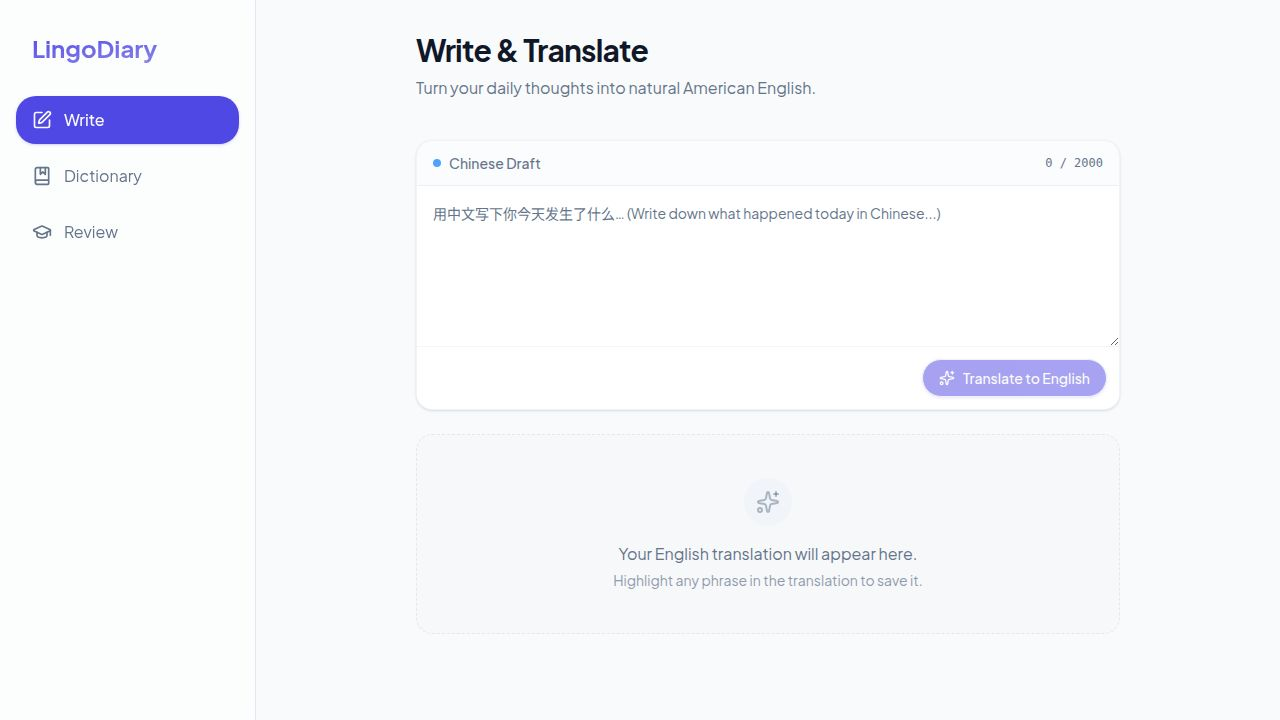
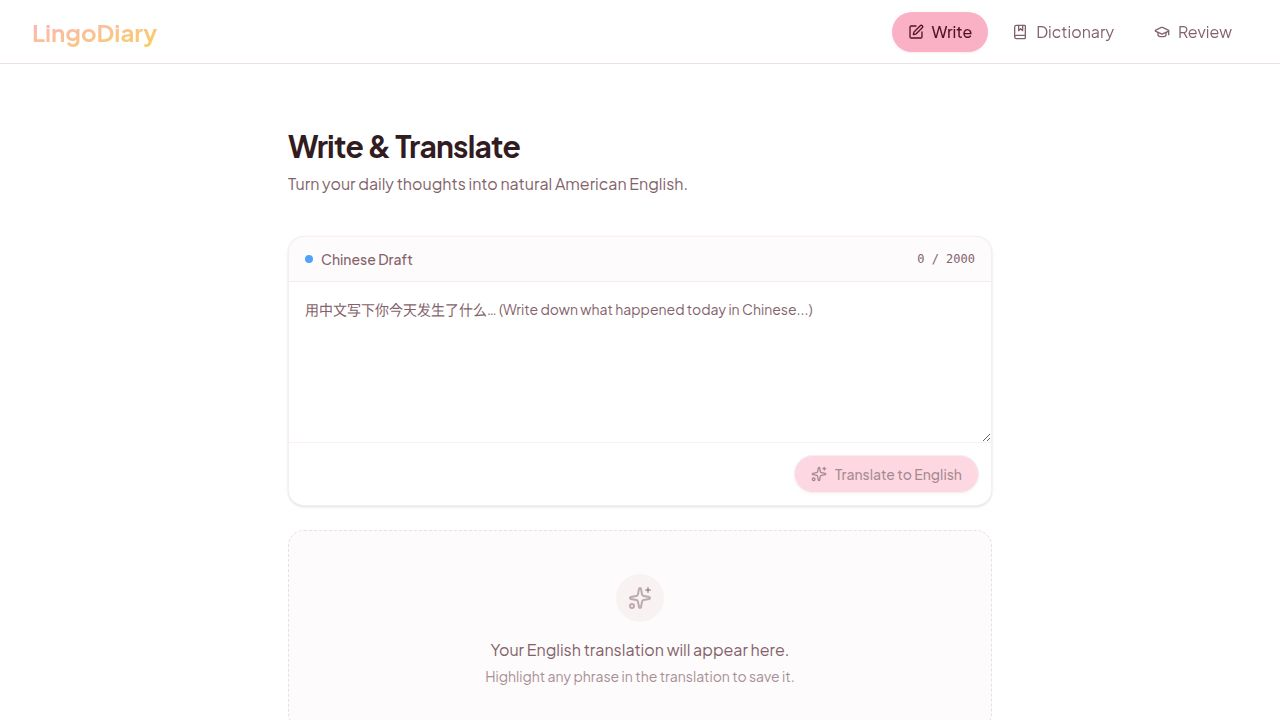
Update navigation to a top bar and apply a new pink and yellow color scheme
Refactor Layout component to change sidebar to top navigation and update CSS variables in index.css for a new color palette.

Replit-Commit-Author: Agent
Replit-Commit-Session-Id: 2f5c9cae-a3cd-45fa-928a-afc157e38379
Replit-Commit-Checkpoint-Type: full_checkpoint
Replit-Commit-Event-Id: bf0035b1-104f-4e60-a5fc-940843815602
Replit-Commit-Screenshot-Url: https://storage.googleapis.com/screenshot-production-us-central1/5b15d8d0-0e60-4e53-80ef-e98c796949b1/2f5c9cae-a3cd-45fa-928a-afc157e38379/vrML07g
Replit-Helium-Checkpoint-Created: true

diff --git a/client/src/components/layout/Layout.tsx b/client/src/components/layout/Layout.tsx
@@ -16,16 +16,16 @@ export default function Layout({ children }: LayoutProps) {
   const [location] = useLocation();
 
   return (
-    <div className="flex flex-col min-h-[100dvh] bg-background md:flex-row">
-      {/* Desktop Sidebar */}
-      <aside className="hidden md:flex flex-col w-64 border-r bg-card/50 backdrop-blur-sm px-4 py-8 shrink-0">
-        <div className="mb-8 px-4">
-          <h1 className="text-2xl font-bold bg-gradient-to-br from-primary to-primary/60 bg-clip-text text-transparent">
+    <div className="flex flex-col min-h-[100dvh] bg-background">
+      {/* Desktop Top Navbar */}
+      <header className="hidden md:flex items-center justify-between h-16 px-8 border-b bg-card/50 backdrop-blur-sm sticky top-0 z-20">
+        <div className="flex items-center gap-2">
+          <h1 className="text-2xl font-bold bg-gradient-to-br from-primary to-accent bg-clip-text text-transparent">
             LingoDiary
           </h1>
         </div>
         
-        <nav className="flex flex-col gap-2">
+        <nav className="flex items-center gap-2">
           {navItems.map((item) => {
             const Icon = item.icon;
             const isActive = location === item.href;
@@ -33,25 +33,25 @@ export default function Layout({ children }: LayoutProps) {
             return (
               <Link key={item.href} href={item.href}>
                 <a className={cn(
-                  "flex items-center gap-3 px-4 py-3 rounded-xl transition-all duration-200",
+                  "flex items-center gap-2 px-4 py-2 rounded-full transition-all duration-200",
                   isActive 
-                    ? "bg-primary text-primary-foreground shadow-sm shadow-primary/20 font-medium" 
+                    ? "bg-primary text-primary-foreground font-medium shadow-sm shadow-primary/20" 
                     : "text-muted-foreground hover:bg-secondary hover:text-foreground"
                 )}>
-                  <Icon className="w-5 h-5" />
+                  <Icon className="w-4 h-4" />
                   <span>{item.label}</span>
                 </a>
               </Link>
             );
           })}
         </nav>
-      </aside>
+      </header>
 
       {/* Main Content Area */}
-      <main className="flex-1 flex flex-col min-h-0 w-full max-w-4xl mx-auto pb-20 md:pb-0">
+      <main className="flex-1 flex flex-col min-h-0 w-full max-w-4xl mx-auto pb-20 md:pb-8 pt-0 md:pt-8 px-0 md:px-4">
         {/* Mobile Header */}
         <header className="md:hidden flex items-center h-14 px-4 border-b bg-background/80 backdrop-blur-md sticky top-0 z-10">
-          <h1 className="text-lg font-bold bg-gradient-to-br from-primary to-primary/60 bg-clip-text text-transparent">
+          <h1 className="text-xl font-bold bg-gradient-to-br from-primary to-accent bg-clip-text text-transparent">
             LingoDiary
           </h1>
         </header>
@@ -75,10 +75,10 @@ export default function Layout({ children }: LayoutProps) {
                   isActive ? "text-primary" : "text-muted-foreground"
                 )}>
                   <div className={cn(
-                    "p-1 rounded-full transition-all duration-200",
-                    isActive && "bg-primary/10"
+                    "p-1.5 rounded-full transition-all duration-200",
+                    isActive && "bg-primary/20 text-primary-foreground"
                   )}>
-                    <Icon className="w-5 h-5" />
+                    <Icon className={cn("w-5 h-5", isActive && "text-primary")} />
                   </div>
                   <span className="text-[10px] font-medium">{item.label}</span>
                 </a>

diff --git a/client/src/index.css b/client/src/index.css
@@ -30,74 +30,74 @@
 }
 
 :root {
-  /* Colors - Soft, clean aesthetic. Indigo primary. */
-  --background: 210 20% 98%; /* f8fafc */
-  --foreground: 222 47% 11%;
+  /* Colors - Pink (#fbb1c5) & Yellow theme */
+  --background: 0 0% 100%; /* Pure white */
+  --foreground: 344 30% 15%; /* Deep pinkish dark */
   
   --card: 0 0% 100%;
-  --card-foreground: 222 47% 11%;
+  --card-foreground: 344 30% 15%;
   
   --popover: 0 0% 100%;
-  --popover-foreground: 222 47% 11%;
+  --popover-foreground: 344 30% 15%;
   
-  --primary: 243 75% 59%; /* Indigo 500 */
-  --primary-foreground: 210 40% 98%;
+  --primary: 344 90% 84%; /* #fbb1c5 */
+  --primary-foreground: 344 60% 20%; /* Dark text for contrast on light pink */
   
-  --secondary: 210 40% 96.1%;
-  --secondary-foreground: 222 47% 11.2%;
+  --secondary: 344 30% 96%; /* Very pale pink */
+  --secondary-foreground: 344 50% 20%;
   
-  --muted: 210 40% 96.1%;
-  --muted-foreground: 215.4 16.3% 46.9%;
+  --muted: 344 20% 96%;
+  --muted-foreground: 344 15% 45%;
   
-  --accent: 210 40% 96.1%;
-  --accent-foreground: 222 47% 11.2%;
+  --accent: 45 93% 65%; /* Soft yellow */
+  --accent-foreground: 45 60% 20%;
   
   --destructive: 0 84.2% 60.2%;
   --destructive-foreground: 210 40% 98%;
   
-  --border: 214.3 31.8% 91.4%;
-  --input: 214.3 31.8% 91.4%;
-  --ring: 243 75% 59%;
+  --border: 344 30% 90%;
+  --input: 344 30% 90%;
+  --ring: 344 90% 84%;
   
-  --radius: 1rem;
+  --radius: 1.2rem;
   
   --font-sans: "Plus Jakarta Sans", "Inter", sans-serif;
   
   /* Softer shadows for cards */
-  --shadow-sm: 0 1px 2px 0 rgb(0 0 0 / 0.05);
-  --shadow: 0 4px 6px -1px rgb(0 0 0 / 0.05), 0 2px 4px -2px rgb(0 0 0 / 0.05);
-  --shadow-md: 0 10px 15px -3px rgb(0 0 0 / 0.05), 0 4px 6px -4px rgb(0 0 0 / 0.05);
-  --shadow-lg: 0 20px 25px -5px rgb(0 0 0 / 0.05), 0 8px 10px -6px rgb(0 0 0 / 0.05);
+  --shadow-sm: 0 2px 4px 0 rgb(251 177 197 / 0.15);
+  --shadow: 0 4px 8px -1px rgb(251 177 197 / 0.15), 0 2px 4px -2px rgb(251 177 197 / 0.1);
+  --shadow-md: 0 10px 15px -3px rgb(251 177 197 / 0.15), 0 4px 6px -4px rgb(251 177 197 / 0.1);
+  --shadow-lg: 0 20px 25px -5px rgb(251 177 197 / 0.15), 0 8px 10px -6px rgb(251 177 197 / 0.1);
 }
 
 .dark {
-  --background: 222 47% 11%;
-  --foreground: 210 40% 98%;
+  --background: 344 30% 10%;
+  --foreground: 344 20% 90%;
   
-  --card: 222 47% 11%;
-  --card-foreground: 210 40% 98%;
+  --card: 344 30% 12%;
+  --card-foreground: 344 20% 90%;
   
-  --popover: 222 47% 11%;
-  --popover-foreground: 210 40% 98%;
+  --popover: 344 30% 12%;
+  --popover-foreground: 344 20% 90%;
   
-  --primary: 243 75% 59%;
-  --primary-foreground: 222 47% 11.2%;
+  --primary: 344 90% 84%; /* #fbb1c5 */
+  --primary-foreground: 344 50% 20%;
   
-  --secondary: 217.2 32.6% 17.5%;
-  --secondary-foreground: 210 40% 98%;
+  --secondary: 344 20% 18%;
+  --secondary-foreground: 344 20% 90%;
   
-  --muted: 217.2 32.6% 17.5%;
-  --muted-foreground: 215 20.2% 65.1%;
+  --muted: 344 20% 18%;
+  --muted-foreground: 344 15% 65%;
   
-  --accent: 217.2 32.6% 17.5%;
-  --accent-foreground: 210 40% 98%;
+  --accent: 45 93% 65%; /* Soft yellow */
+  --accent-foreground: 45 60% 20%;
   
   --destructive: 0 62.8% 30.6%;
   --destructive-foreground: 210 40% 98%;
   
-  --border: 217.2 32.6% 17.5%;
-  --input: 217.2 32.6% 17.5%;
-  --ring: 243 75% 59%;
+  --border: 344 20% 20%;
+  --input: 344 20% 20%;
+  --ring: 344 90% 84%;
 }
 
 @layer base {
